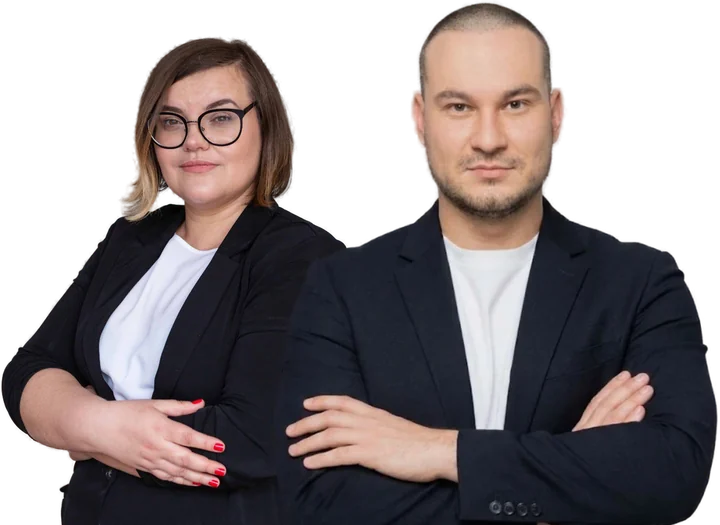
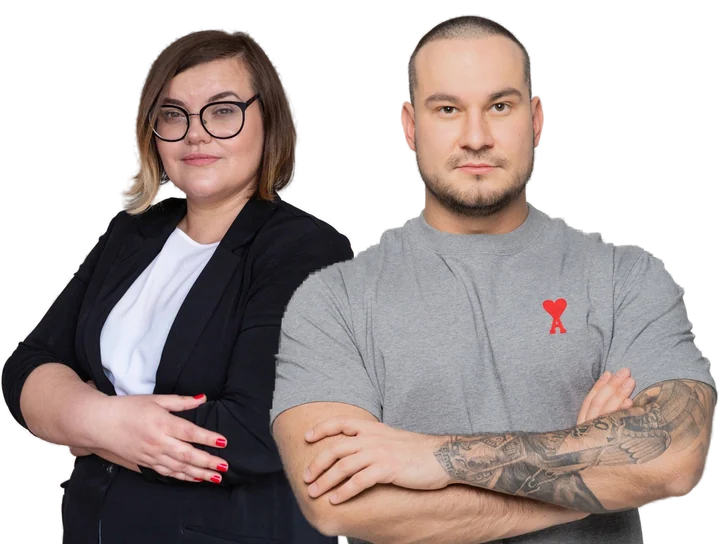
Первый экран v6: настоящие фото Юрия (5) и Лилии (А) (на согласовании)
Claude-Session: https://claude.ai/code/session_01Jsi4R3DQwjYsar1VJicW94

diff --git a/src/components/landing/Hero.tsx b/src/components/landing/Hero.tsx
@@ -66,12 +66,12 @@ const Hero = () => {
         <figure className="relative mx-auto w-full max-w-[560px] self-end px-5 lg:mx-0 lg:max-w-none lg:px-10 xl:pr-14">
           <div aria-hidden className="absolute bottom-[-12%] left-1/2 aspect-square w-[92%] -translate-x-1/2 rounded-full bg-pale" />
           <img
-            src="/team-pair.webp?v=4"
-            srcSet="/team-pair-720.webp?v=4 720w, /team-pair.webp?v=4 1124w"
+            src="/team-pair.webp?v=6"
+            srcSet="/team-pair-720.webp?v=6 720w, /team-pair.webp?v=6 1058w"
             sizes="(max-width: 1023px) 92vw, 46vw"
             alt="Лилия Ковальчук и Юрий Ситников, agregatory.pro"
-            width={1124}
-            height={820}
+            width={1058}
+            height={800}
             {...{ fetchpriority: "high" }}
             decoding="async"
             className="relative block h-auto w-full"
